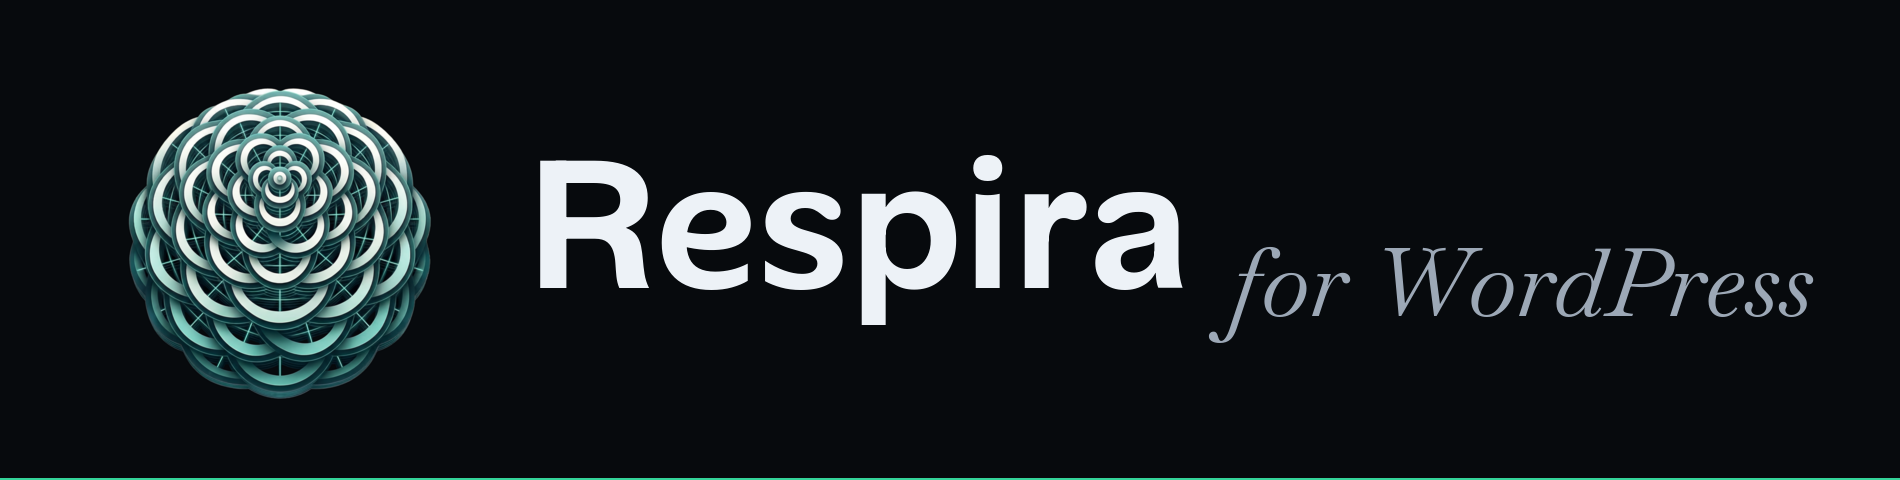
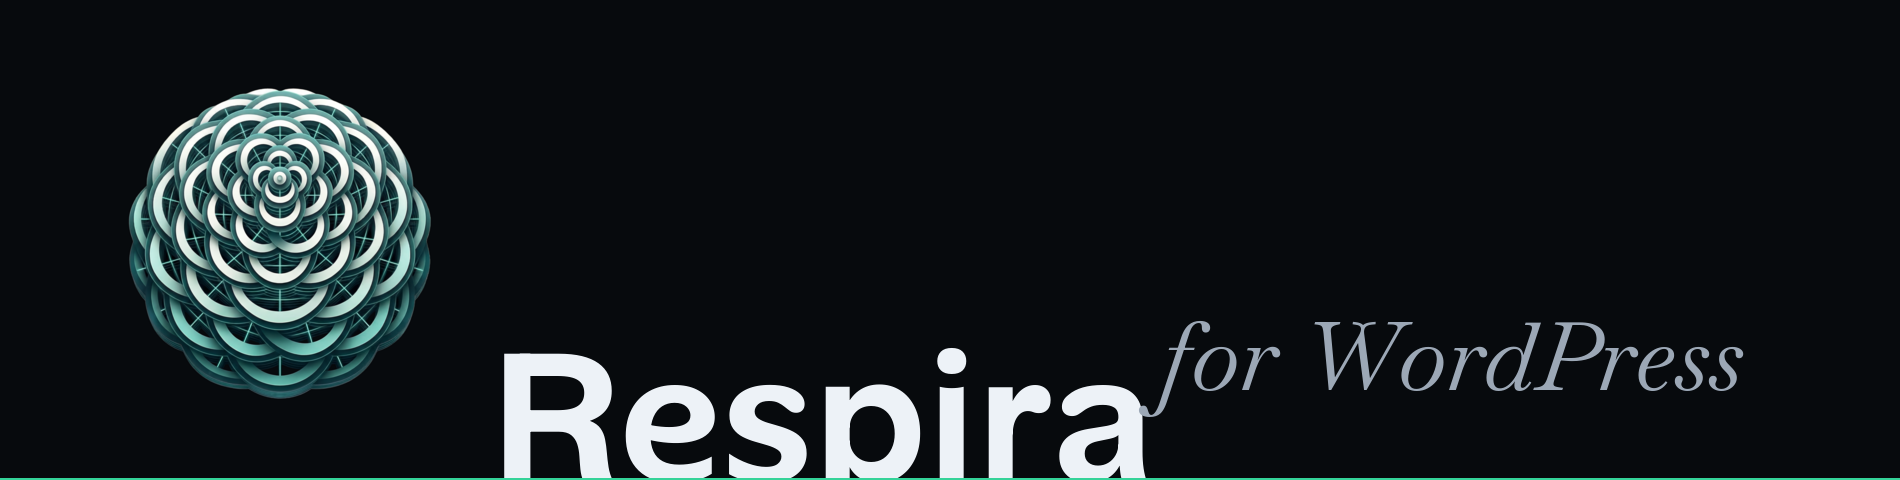
Cover: render text with -annotate so Respira and for WordPress share a true baseline
Switches from positioned trimmed PNGs (which had different descender depths
in Alan Sans vs Baskervville and threw baselines off) to ImageMagick
-annotate with a shared baseline y=295. Also tightens the gap between
symbol and Respira from 70px to 20px.

Changed region(s): [[0.2484, 0.5, 0.9626, 1.0], [0.2795, 0.3125, 0.6211, 0.6875], [0.4968, 0.3125, 0.5279, 0.375]]

diff --git a/profile/README.md b/profile/README.md
@@ -1,5 +1,5 @@
 <p align="center">
-  <img src="https://raw.githubusercontent.com/respira-press/.github/main/profile/cover.png?v=1779020438" alt="Respira for WordPress" width="100%" />
+  <img src="https://raw.githubusercontent.com/respira-press/.github/main/profile/cover.png?v=1779021159" alt="Respira for WordPress" width="100%" />
 </p>
 
 # [Respira for WordPress](https://respira.press)